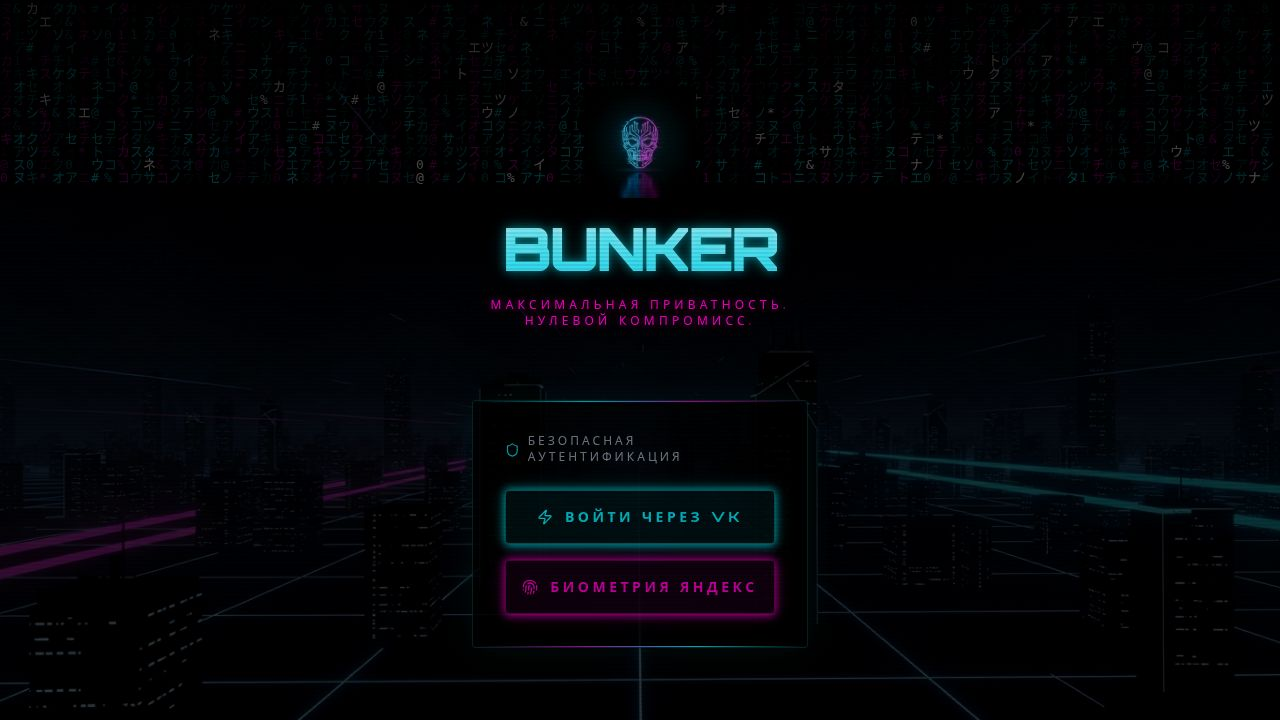
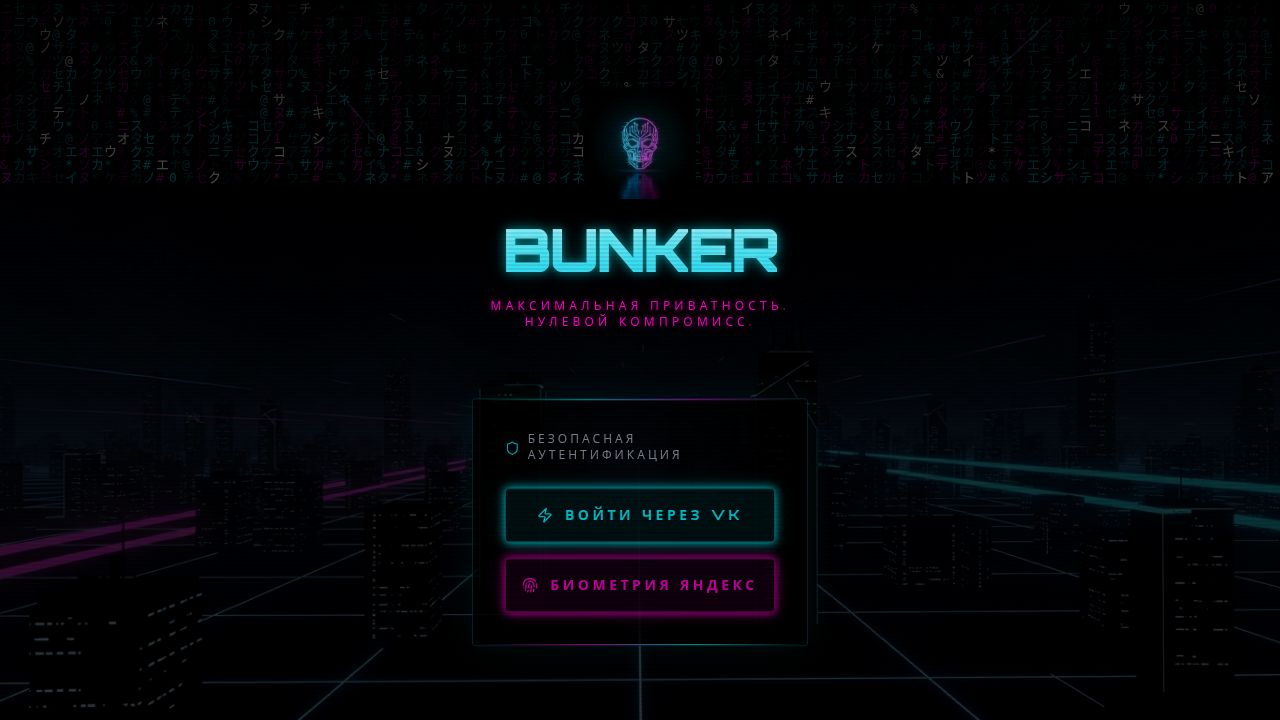
Add mesh status bar and simulation button to the communication tab
Add a new mesh status bar component to the ChatsList page with simulation functionality.

Replit-Commit-Author: Agent
Replit-Commit-Session-Id: 41d88499-856a-4395-bce7-00956e86f3f4
Replit-Commit-Checkpoint-Type: full_checkpoint
Replit-Commit-Event-Id: acb9d1bb-be90-4d9b-9ccc-0d72ce385714
Replit-Commit-Screenshot-Url: https://storage.googleapis.com/screenshot-production-us-central1/ddfbee9b-b4b5-4169-9f0a-b56566069f51/41d88499-856a-4395-bce7-00956e86f3f4/ALfQlBG
Replit-Helium-Checkpoint-Created: true

diff --git a/artifacts/bunker/src/pages/ChatsList.tsx b/artifacts/bunker/src/pages/ChatsList.tsx
@@ -1,16 +1,259 @@
-import { motion } from "framer-motion";
-import { Lock, Shield, Plus } from "lucide-react";
+import { useState } from "react";
+import { motion, AnimatePresence } from "framer-motion";
+import { Lock, Shield, Plus, Radio, Wifi, Hexagon } from "lucide-react";
 import { T } from "@/lib/constants";
 import { useTranslation } from "react-i18next";
 
 const CONVERSATIONS = [
-  { id: "c1", name: "Agent K",   color: "#00f0ff", lastMsg: "Drop point secured. Awaiting signal.",         time: "14:23", unread: 2,  encrypted: true },
-  { id: "c2", name: "ZeroCool",  color: "#ff00cc", lastMsg: "The mainframe is patched. Need another way.", time: "09:11", unread: 0,  encrypted: true },
-  { id: "c3", name: "Morpheus",  color: "#00ff88", lastMsg: "Hack the planet.",                            time: "Yesterday", unread: 0, encrypted: true },
-  { id: "c4", name: "Trinity",   color: "#bf00ff", lastMsg: "Follow the white rabbit.",                    time: "Tuesday",   unread: 1, encrypted: true },
-  { id: "c5", name: "Ghost",     color: "#ffd700", lastMsg: "Signal lost. Reconnecting...",               time: "Tuesday",   unread: 0, encrypted: false },
+  { id: "c1", name: "Agent K",  color: "#00f0ff", lastMsg: "Точка сброса закреплена. Жду сигнала.",      time: "14:23",    unread: 2, encrypted: true  },
+  { id: "c2", name: "ZeroCool", color: "#ff00cc", lastMsg: "Мейнфрейм пропатчен. Нужен другой путь.",   time: "09:11",    unread: 0, encrypted: true  },
+  { id: "c3", name: "Morpheus", color: "#00ff88", lastMsg: "Взломай планету.",                           time: "Вчера",    unread: 0, encrypted: true  },
+  { id: "c4", name: "Trinity",  color: "#bf00ff", lastMsg: "Следуй за белым кроликом.",                  time: "Вторник",  unread: 1, encrypted: true  },
+  { id: "c5", name: "Ghost",    color: "#ffd700", lastMsg: "Сигнал потерян. Переподключение...",         time: "Вторник",  unread: 0, encrypted: false },
 ];
 
+const MOCK_NODES = [
+  { id: "n1", name: "BUNKER_7F2A", rssi: -42, lat: "55.75°N", lng: "37.61°E" },
+  { id: "n2", name: "BUNKER_3C9D", rssi: -61, lat: "55.74°N", lng: "37.62°E" },
+  { id: "n3", name: "BUNKER_A1F6", rssi: -78, lat: "55.76°N", lng: "37.60°E" },
+];
+
+function rssiBar(rssi: number) {
+  const pct = Math.min(100, Math.max(0, ((rssi + 100) / 60) * 100));
+  const color = pct > 60 ? "#00ff88" : pct > 30 ? "#ffd700" : "#ff3366";
+  return { pct, color };
+}
+
+// ── Mesh radar animation ─────────────────────────────────
+function RadarDot({ delay = 0, angle = 0, dist = 0.55 }: { delay?: number; angle?: number; dist?: number }) {
+  const x = 50 + dist * 50 * Math.cos((angle * Math.PI) / 180);
+  const y = 50 + dist * 50 * Math.sin((angle * Math.PI) / 180);
+  return (
+    <motion.circle
+      cx={`${x}%`} cy={`${y}%`} r="3.5"
+      fill="#00ff88"
+      initial={{ opacity: 0, scale: 0 }}
+      animate={{ opacity: [0, 1, 0.7], scale: [0, 1.2, 1] }}
+      transition={{ delay, duration: 0.6, ease: "easeOut" }}
+      style={{ filter: "drop-shadow(0 0 4px #00ff88)" }}
+    />
+  );
+}
+
+function MeshRadar({ active }: { active: boolean }) {
+  return (
+    <div className="relative w-20 h-20 shrink-0">
+      <svg viewBox="0 0 100 100" className="w-full h-full">
+        {/* Rings */}
+        {[38, 26, 14].map((r, i) => (
+          <circle key={i} cx="50%" cy="50%" r={`${r}%`} fill="none"
+            stroke={active ? "#00ff8830" : "#ffffff08"} strokeWidth="1" />
+        ))}
+        {/* Cross-hairs */}
+        <line x1="50%" y1="8%" x2="50%" y2="92%" stroke={active ? "#00ff8820" : "#ffffff06"} strokeWidth="0.8" />
+        <line x1="8%" y1="50%" x2="92%" y2="50%" stroke={active ? "#00ff8820" : "#ffffff06"} strokeWidth="0.8" />
+        {/* Sweep */}
+        {active && (
+          <motion.line
+            x1="50%" y1="50%" x2="50%" y2="14%"
+            stroke="#00ff88" strokeWidth="1.5" strokeLinecap="round"
+            style={{ transformOrigin: "50% 50%", filter: "drop-shadow(0 0 3px #00ff88)" }}
+            animate={{ rotate: 360 }}
+            transition={{ duration: 2.5, repeat: Infinity, ease: "linear" }}
+          />
+        )}
+        {/* Center dot */}
+        <circle cx="50%" cy="50%" r="3" fill={active ? "#00ff88" : "#333"}
+          style={{ filter: active ? "drop-shadow(0 0 5px #00ff88)" : "none" }} />
+        {/* Node dots */}
+        {active && (
+          <>
+            <RadarDot delay={0.5} angle={-55}  dist={0.42} />
+            <RadarDot delay={0.9} angle={110}  dist={0.62} />
+            <RadarDot delay={1.3} angle={200}  dist={0.35} />
+          </>
+        )}
+      </svg>
+    </div>
+  );
+}
+
+// ── Mesh Status Bar ──────────────────────────────────────
+function MeshBar() {
+  const [active, setActive] = useState(false);
+  const [scanning, setScanning] = useState(false);
+  const [expanded, setExpanded] = useState(false);
+
+  const simulate = () => {
+    if (active) {
+      setActive(false);
+      setExpanded(false);
+      return;
+    }
+    setScanning(true);
+    setTimeout(() => {
+      setScanning(false);
+      setActive(true);
+    }, 1800);
+  };
+
+  const statusColor  = active ? "#00ff88" : scanning ? "#ffd700" : "#333";
+  const statusLabel  = active   ? "Найдено узлов: 3"
+                     : scanning ? "Сканирование..."
+                     :            "Узлов в радиусе: 0";
+
+  return (
+    <motion.div
+      layout
+      className="mb-5 rounded-sm overflow-hidden"
+      style={{ background: "rgba(0,0,0,0.5)", border: `1px solid ${active ? "#00ff8830" : scanning ? "#ffd70030" : "rgba(255,255,255,0.06)"}`,
+        backdropFilter: "blur(12px)", boxShadow: active ? `0 0 24px rgba(0,255,136,0.08)` : "none",
+        transition: "border-color 0.4s, box-shadow 0.4s" }}
+    >
+      {/* Top row */}
+      <div className="flex items-center gap-4 p-4">
+        <MeshRadar active={active} />
+
+        <div className="flex-1 min-w-0 space-y-2">
+          {/* Label row */}
+          <div className="flex items-center gap-2">
+            <Radio className="w-3.5 h-3.5 shrink-0" style={{ color: statusColor, filter: active ? `drop-shadow(${T.glow(statusColor)})` : "none" }} />
+            <span className="font-tech text-xs uppercase tracking-widest" style={{ color: statusColor, textShadow: active ? T.glowText(statusColor) : "none" }}>
+              MESH
+            </span>
+            {/* Live indicator */}
+            {active && (
+              <motion.div
+                animate={{ opacity: [1, 0.3, 1] }}
+                transition={{ duration: 1.2, repeat: Infinity }}
+                className="w-1.5 h-1.5 rounded-full shrink-0"
+                style={{ background: "#00ff88", boxShadow: T.glow("#00ff88") }}
+              />
+            )}
+          </div>
+
+          {/* Status */}
+          <AnimatePresence mode="wait">
+            <motion.p
+              key={statusLabel}
+              initial={{ opacity: 0, y: 4 }}
+              animate={{ opacity: 1, y: 0 }}
+              exit={{ opacity: 0, y: -4 }}
+              transition={{ duration: 0.25 }}
+              className="font-display font-bold text-sm uppercase tracking-wider"
+              style={{ color: active ? "#fff" : "#444", textShadow: active ? T.glowText("#00ff88") : "none" }}
+            >
+              {statusLabel}
+            </motion.p>
+          </AnimatePresence>
+
+          {/* Signal bars for active state */}
+          {active && (
+            <motion.div initial={{ opacity: 0 }} animate={{ opacity: 1 }} className="flex items-end gap-0.5 h-3">
+              {MOCK_NODES.map((node, i) => {
+                const { pct, color } = rssiBar(node.rssi);
+                return (
+                  <motion.div key={node.id} initial={{ scaleY: 0 }} animate={{ scaleY: 1 }}
+                    transition={{ delay: 0.3 + i * 0.1, type: "spring", stiffness: 300 }}
+                    className="w-5 rounded-sm origin-bottom"
+                    style={{ height: `${Math.max(30, pct)}%`, background: color, boxShadow: `0 0 4px ${color}60` }}
+                  />
+                );
+              })}
+              <span className="font-tech text-[9px] text-gray-600 ml-2 self-end uppercase tracking-widest">сигнал</span>
+            </motion.div>
+          )}
+        </div>
+
+        {/* Expand chevron (only active) */}
+        {active && (
+          <button onClick={() => setExpanded(e => !e)} className="shrink-0 p-1 text-gray-600 hover:text-white transition-colors">
+            <motion.div animate={{ rotate: expanded ? 180 : 0 }} transition={{ duration: 0.2 }}>
+              <Wifi className="w-4 h-4" style={{ color: "#00ff8870" }} />
+            </motion.div>
+          </button>
+        )}
+      </div>
+
+      {/* Expanded node list */}
+      <AnimatePresence>
+        {active && expanded && (
+          <motion.div
+            initial={{ height: 0, opacity: 0 }}
+            animate={{ height: "auto", opacity: 1 }}
+            exit={{ height: 0, opacity: 0 }}
+            transition={{ duration: 0.3, ease: "easeInOut" }}
+            style={{ borderTop: "1px solid rgba(0,255,136,0.1)", overflow: "hidden" }}
+          >
+            <div className="px-4 py-3 space-y-2">
+              {MOCK_NODES.map((node, i) => {
+                const { pct, color } = rssiBar(node.rssi);
+                return (
+                  <motion.div key={node.id}
+                    initial={{ opacity: 0, x: -10 }} animate={{ opacity: 1, x: 0 }}
+                    transition={{ delay: i * 0.07 }}
+                    className="flex items-center gap-3 py-2 px-3 rounded-sm"
+                    style={{ background: "rgba(0,255,136,0.04)", border: "1px solid rgba(0,255,136,0.1)" }}>
+                    <Hexagon className="w-4 h-4 shrink-0" style={{ color: "#00ff8870" }} />
+                    <div className="flex-1 min-w-0">
+                      <p className="font-tech text-xs text-white uppercase tracking-wider truncate">{node.name}</p>
+                      <p className="font-tech text-[9px] text-gray-600 tracking-wider">{node.lat} · {node.lng}</p>
+                    </div>
+                    <div className="flex items-center gap-1.5">
+                      <div className="w-12 h-1.5 rounded-full overflow-hidden" style={{ background: "rgba(255,255,255,0.06)" }}>
+                        <motion.div initial={{ width: 0 }} animate={{ width: `${pct}%` }}
+                          transition={{ delay: 0.2 + i * 0.1, duration: 0.5 }}
+                          className="h-full rounded-full" style={{ background: color }} />
+                      </div>
+                      <span className="font-tech text-[9px] shrink-0" style={{ color }}>{node.rssi} дБм</span>
+                    </div>
+                  </motion.div>
+                );
+              })}
+            </div>
+          </motion.div>
+        )}
+      </AnimatePresence>
+
+      {/* Simulate / Reset button */}
+      <div className="px-4 pb-4">
+        <motion.button
+          onClick={simulate}
+          disabled={scanning}
+          whileTap={{ scale: 0.97 }}
+          className="w-full py-2.5 font-display font-bold text-xs uppercase tracking-[0.2em] rounded-sm flex items-center justify-center gap-2 transition-all disabled:opacity-60"
+          style={{
+            background: active   ? "rgba(255,51,102,0.08)"  : scanning ? "rgba(255,215,0,0.08)"  : "rgba(0,255,136,0.08)",
+            border:     active   ? "1px solid rgba(255,51,102,0.35)" : scanning ? "1px solid rgba(255,215,0,0.3)" : "1px solid rgba(0,255,136,0.3)",
+            color:      active   ? "#ff3366"                : scanning ? "#ffd700"                : "#00ff88",
+            boxShadow:  !active && !scanning ? T.glow("#00ff88") : active ? T.glow("#ff3366") : undefined,
+          }}
+        >
+          {scanning ? (
+            <>
+              <motion.div animate={{ rotate: 360 }} transition={{ duration: 1, repeat: Infinity, ease: "linear" }}>
+                <Radio className="w-3.5 h-3.5" />
+              </motion.div>
+              Сканирование...
+            </>
+          ) : active ? (
+            <>
+              <Radio className="w-3.5 h-3.5" />
+              Сбросить Mesh
+            </>
+          ) : (
+            <>
+              <Radio className="w-3.5 h-3.5" />
+              Эмулировать Mesh-соседство
+            </>
+          )}
+        </motion.button>
+      </div>
+    </motion.div>
+  );
+}
+
+// ── Page ─────────────────────────────────────────────────
 export default function ChatsList() {
   const { t } = useTranslation();
 
@@ -18,36 +261,52 @@ export default function ChatsList() {
     <div className="min-h-screen pb-28 px-4 pt-12 no-scrollbar overflow-y-auto">
       <header className="mb-6 flex items-end justify-between">
         <div>
-          <p className="font-tech text-xs tracking-[0.3em] mb-1 uppercase" style={{ color: "#ff00cc", textShadow: T.glowText("#ff00cc") }}>
+          <p className="font-tech text-xs tracking-[0.3em] mb-1 uppercase"
+            style={{ color: "#ff00cc", textShadow: T.glowText("#ff00cc") }}>
             {t("chats.subheader")}
           </p>
-          <h1 className="font-display font-black text-3xl tracking-wider uppercase text-white" style={{ textShadow: T.glowText("#ff00cc") }}>
+          <h1 className="font-display font-black text-3xl tracking-wider uppercase text-white"
+            style={{ textShadow: T.glowText("#ff00cc") }}>
             {t("chats.header")}
           </h1>
-          <div className="mt-3 h-[2px] w-14 rounded-full" style={{ background: "#ff00cc", boxShadow: T.glow("#ff00cc") }} />
+          <div className="mt-3 h-[2px] w-14 rounded-full"
+            style={{ background: "#ff00cc", boxShadow: T.glow("#ff00cc") }} />
         </div>
         <div className="flex items-center gap-1.5 px-3 py-1.5 rounded-sm"
           style={{ background: "rgba(0,255,136,0.08)", border: "1px solid rgba(0,255,136,0.2)" }}>
           <Lock className="w-3 h-3" style={{ color: "#00ff88" }} />
-          <span className="font-tech text-[9px] uppercase tracking-widest" style={{ color: "#00ff88" }}>{t("chats.e2eActive")}</span>
+          <span className="font-tech text-[9px] uppercase tracking-widest" style={{ color: "#00ff88" }}>
+            {t("chats.e2eActive")}
+          </span>
         </div>
       </header>
 
-      <div className="mb-6 p-3 flex gap-3 items-start rounded-sm"
-        style={{ background: "rgba(0,0,0,0.4)", border: "1px solid rgba(0,240,255,0.1)", borderLeft: "2px solid rgba(0,240,255,0.5)", backdropFilter: "blur(8px)" }}>
+      {/* ── Mesh Status Bar ── */}
+      <MeshBar />
+
+      {/* E2E protocol info */}
+      <div className="mb-5 p-3 flex gap-3 items-start rounded-sm"
+        style={{ background: "rgba(0,0,0,0.4)", border: "1px solid rgba(0,240,255,0.1)",
+          borderLeft: "2px solid rgba(0,240,255,0.5)", backdropFilter: "blur(8px)" }}>
         <Shield className="w-4 h-4 shrink-0 mt-0.5" style={{ color: "#00f0ff" }} />
         <div>
-          <p className="font-tech text-[10px] text-white uppercase tracking-wider mb-0.5">{t("chats.protocolTitle")}</p>
-          <p className="font-sans text-[10px] text-gray-500 leading-relaxed">{t("chats.protocolDesc")}</p>
+          <p className="font-tech text-[10px] text-white uppercase tracking-wider mb-0.5">
+            {t("chats.protocolTitle")}
+          </p>
+          <p className="font-sans text-[10px] text-gray-500 leading-relaxed">
+            {t("chats.protocolDesc")}
+          </p>
         </div>
       </div>
 
+      {/* Conversation list */}
       <div className="space-y-2">
         {CONVERSATIONS.map((chat, i) => (
-          <motion.div key={chat.id} initial={{ opacity: 0, x: -20 }} animate={{ opacity: 1, x: 0 }}
+          <motion.div key={chat.id}
+            initial={{ opacity: 0, x: -20 }} animate={{ opacity: 1, x: 0 }}
             transition={{ delay: i * 0.07, type: "spring", stiffness: 260, damping: 22 }}
             whileTap={{ scale: 0.98 }}
-            className="flex items-center gap-4 p-4 cursor-pointer transition-all rounded-sm group"
+            className="flex items-center gap-4 p-4 cursor-pointer transition-all rounded-sm"
             style={{ background: "rgba(0,0,0,0.4)", border: "1px solid rgba(255,255,255,0.04)", backdropFilter: "blur(8px)" }}>
             <div className="relative shrink-0">
               <div className="w-12 h-12 rounded-sm flex items-center justify-center font-display font-black text-xl text-black uppercase"
@@ -57,7 +316,9 @@ export default function ChatsList() {
               {chat.unread > 0 && (
                 <motion.div animate={{ scale: [1, 1.15, 1] }} transition={{ duration: 1.5, repeat: Infinity }}
                   className="absolute -top-1 -right-1 w-5 h-5 rounded-full flex items-center justify-center text-[9px] font-bold text-black border-2 border-black"
-                  style={{ background: "#ff00cc", boxShadow: T.glow("#ff00cc") }}>{chat.unread}</motion.div>
+                  style={{ background: "#ff00cc", boxShadow: T.glow("#ff00cc") }}>
+                  {chat.unread}
+                </motion.div>
               )}
             </div>
             <div className="flex-1 min-w-0">
@@ -67,13 +328,14 @@ export default function ChatsList() {
               </div>
               <p className="text-[11px] text-gray-500 truncate font-sans leading-snug">{chat.lastMsg}</p>
             </div>
-            <Lock className="w-3 h-3 shrink-0" style={{ color: chat.encrypted ? "#00ff8840" : "#ff336640" }} />
+            <Lock className="w-3 h-3 shrink-0"
+              style={{ color: chat.encrypted ? "#00ff8840" : "#ff336640" }} />
           </motion.div>
         ))}
       </div>
 
       <motion.button whileHover={{ scale: 1.05 }} whileTap={{ scale: 0.95 }}
-        className="fixed bottom-24 right-5 z-30 w-13 h-13 rounded-full flex items-center justify-center p-3.5"
+        className="fixed bottom-24 right-5 z-30 rounded-full flex items-center justify-center p-3.5"
         style={{ background: "rgba(255,0,204,0.12)", border: "1px solid rgba(255,0,204,0.4)", boxShadow: T.glow("#ff00cc") }}>
         <Plus className="w-5 h-5" style={{ color: "#ff00cc" }} />
       </motion.button>